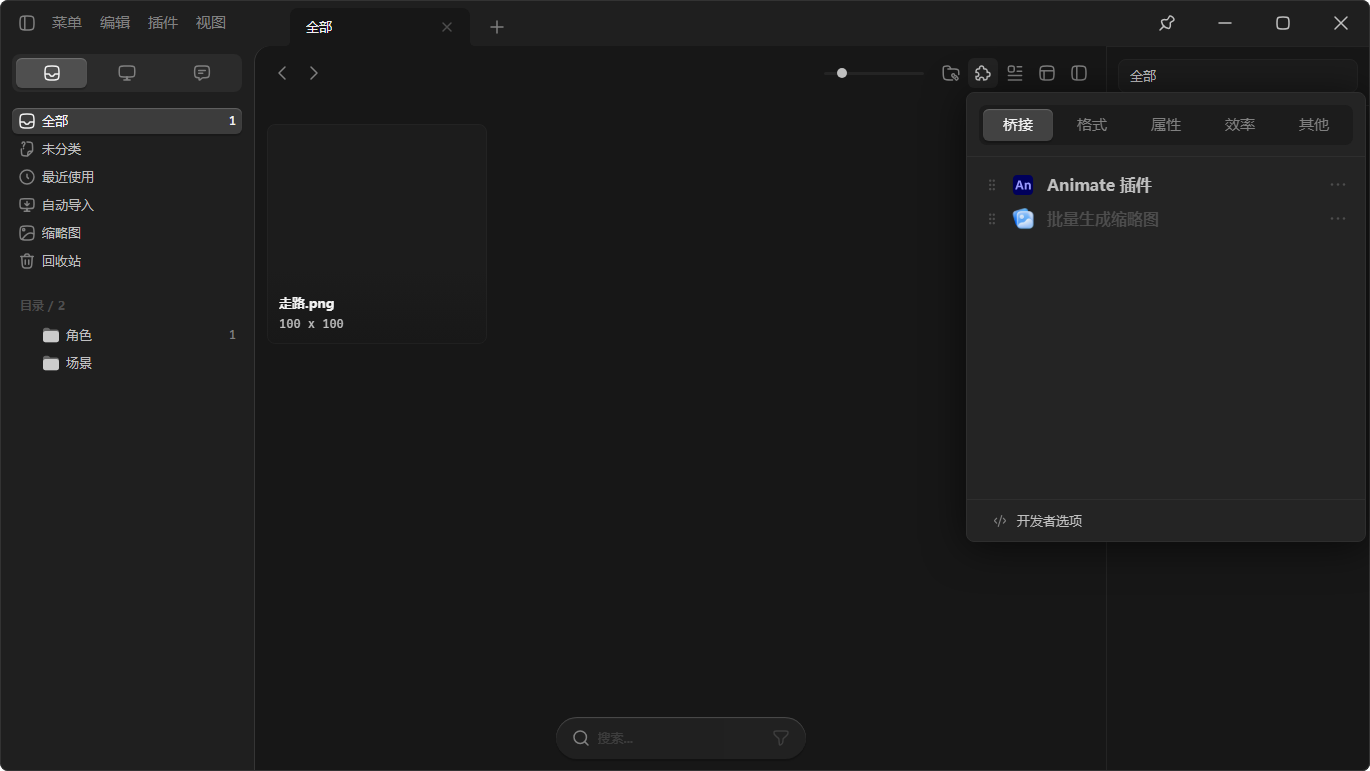
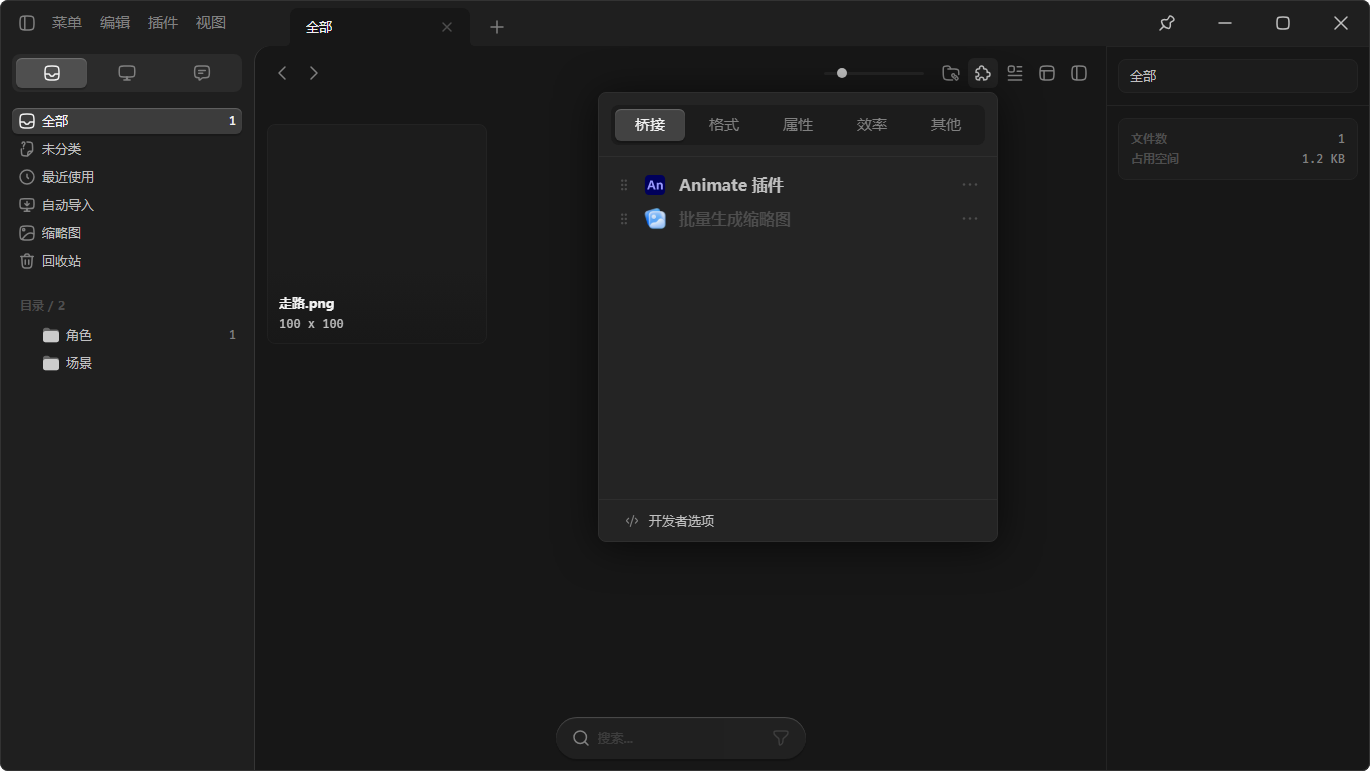
fix(ui): 插件轮走查三轮——浮层右缘对齐展开 / 拖拽松手回弹根治 / CEP 面板高度记忆
- openPluginPanel 锚点 rect.left → rect.right - 400（右侧钮向左展开）
- 拖拽回弹根因 = settling 死代码（写在 drag.id 判空后）：松手归位帧恒禁 transform 过渡，onDragEnd 任何松手置位
- CEP manifest 默认高 520 → 760（容纳导出设置组）+ resizeContent 启动重试 300ms/1000ms + bump 0.3.0
- 探针 +P2-2b 右缘断言，41 项全 PASS；typecheck 0 错

diff --git a/src/components/plugins/PluginListPanel.vue b/src/components/plugins/PluginListPanel.vue
@@ -90,6 +90,9 @@ function onDragEnd(): void {
   const { from, to } = drag;
   const moved = dragMoved;
   drag.id = "";
+  // 归位帧禁过渡（itemStyle settling 分支）——任何松手都置位：拖回原位也有残留 dy 偏移
+  settling.value = true;
+  setTimeout(() => (settling.value = false), 50);
   if (!moved || from < 0 || to === from) return;
   // 可见子序重排 → 回写全局序（其他分类 id 保持原位：按可见集原位替换）
   const vis = visiblePlugins.value.map((p) => p.id);
@@ -100,8 +103,6 @@ function onDragEnd(): void {
   ui.pluginOrder = orderedPlugins.value.map((p) => (visSet.has(p.id) ? vis[j++] : p.id));
   suppressClick = true;
   setTimeout(() => (suppressClick = false), 0);
-  settling.value = true;
-  setTimeout(() => (settling.value = false), 50);
 }
 
 function onDragCancel(): void {
@@ -121,13 +122,16 @@ onBeforeUnmount(() => {
   onDragCancel();
 });
 
-// 让位位移：拖动项跟随指针（无过渡、置顶）；被跨越项反向让出一步（transition 在 .plugin-item 根样式）
+// 让位位移：拖动项跟随指针（无过渡、置顶）；被跨越项反向让出一步（transition 在 .plugin-item 根样式）。
+// 松手归位帧（settling，2026-09-06 三轮修「松手回弹」）：drag.id 清空与 pluginOrder 重排同帧发生——
+// inline transform 移除若走根样式 0.18s transition，残留 dy/让位偏移会从新位置滑回（= 用户看到的回弹）；
+// 归位帧恒禁过渡，DOM 重排 + transform 移除同帧瞬时完成，落位干脆（settling 判定必须先于 drag.id 判空）。
 function itemStyle(i: number): string {
+  if (settling.value) return "transition: none;";
   if (!drag.id) return "";
   if (i === drag.from) {
     return `transform: translateY(${drag.dy}px); transition: none; position: relative; z-index: 2;`;
   }
-  if (settling.value) return "";
   const { from, to } = drag;
   if (from < to && i > from && i <= to) return `transform: translateY(${-ITEM_STEP}px)`;
   if (to < from && i >= to && i < from) return `transform: translateY(${ITEM_STEP}px)`;

diff --git a/src/lib/pluginPanel.ts b/src/lib/pluginPanel.ts
@@ -1,12 +1,15 @@
 // 插件列表面板（浮层）全局状态与打开逻辑（2026-09-06 插件面板轮）：
-// 三入口共用（SidebarLeft「插件」文字钮 / ContentTitleBar 工具栏 plugin 钮 / PreviewTitleBar plugin 钮），
-// 宿主 App.vue 唯一实例（预览子窗口同在）——ContextMenu 菜单同位口径。
+// 两入口共用（ContentTitleBar 工具栏 plugin 钮 / PreviewTitleBar plugin 钮；菜单栏「插件」文字钮
+// 同日二轮改走 pluginMenu 上下文菜单不再经此），宿主 App.vue 唯一实例（预览子窗口同在）。
 // 非模态浮层（用户定）：点面板外 / Esc 关（AppMenu 机制）、同钮再点 toggle 关（trigger 豁免，
 // 点触发钮不算点外——速查 §26 M7 教训）；选择模式（picker.active）禁开（视觉不改——稿无禁用态）。
-// 弹出位 = 触发钮下方（左缘对齐 rect.left、顶 = rect.bottom + 4，菜单栏「菜单」钮同位口径），
+// 弹出位 = 触发钮下方、**右缘对齐按钮右缘**（顶 = rect.bottom + 4）——同日三轮用户实机定：
+// 工具栏钮在右侧，左缘对齐向右展开必出窗（「浮层朝左边展开，右边本来就没什么空间了」）；
 // 视口右/底缘钳制归 AppMenu。
 import { reactive } from "vue";
 import { usePickerStore } from "../stores/picker";
+
+export const PLUGIN_PANEL_WIDTH = 400; // 稿值（PluginListPanel AppMenu width 同源）
 
 export const pluginPanelState = reactive({
   open: false,
@@ -24,7 +27,7 @@ export function openPluginPanel(e: MouseEvent): void {
   }
   if (usePickerStore().active) return; // 选择模式禁开（白名单收窄，§12.1 同口径）
   const rect = el.getBoundingClientRect();
-  pluginPanelState.x = rect.left;
+  pluginPanelState.x = rect.right - PLUGIN_PANEL_WIDTH; // 右缘对齐（工具栏右侧钮，向左展开）
   pluginPanelState.y = rect.bottom + 4;
   pluginPanelState.trigger = el;
   pluginPanelState.open = true;

diff --git a/plugins/animate-cep/js/panel.js b/plugins/animate-cep/js/panel.js
@@ -770,15 +770,24 @@ function onExported(name, dir) {
 
 /* —— 面板尺寸持久化（2026-09-02 用户报：调好宽度重开 AN 回退默认 300——CEP 宿主不替扩展记忆尺寸）：
  * 启动读 localStorage 恢复（resizeContent）；window resize（dock 拖宽 / 浮动调整都会触发）防抖 300ms 记忆。
- * docked 下 resizeContent 有效性因宿主而异，实测定；无效时退路 = manifest 默认尺寸调大 + Animate 保存工作区。 —— */
+ * 2026-09-06 三轮（用户实机报「还是不能记忆高度，保存工作区只记位置」）：
+ * ① manifest 默认高 520 → 760——导出设置组入面板后 520 放不下（Animate 工作区对 CEP 面板
+ *    高度不持久，重开回 manifest 默认，默认必须能容纳全部内容）；
+ * ② resizeContent 启动重试 300ms / 1000ms——docked 下宿主布局完成后可能覆盖首次调用，
+ *    重试兜底（docked 下 resizeContent 有效性因宿主而异：浮动面板恒有效，dock 尽力而为）。 —— */
 (function panelSizePersist() {
-  try {
-    var s = localStorage.getItem('cepPanelSize');
-    if (s) {
-      var p = JSON.parse(s);
-      if (p && p.w >= 260 && p.h >= 380) cs.resizeContent(p.w, p.h); // 下限 = manifest MinSize
-    }
-  } catch (e) {}
+  function restoreSize() {
+    try {
+      var s = localStorage.getItem('cepPanelSize');
+      if (s) {
+        var p = JSON.parse(s);
+        if (p && p.w >= 260 && p.h >= 380) cs.resizeContent(p.w, p.h); // 下限 = manifest MinSize
+      }
+    } catch (e) {}
+  }
+  restoreSize();
+  setTimeout(restoreSize, 300);
+  setTimeout(restoreSize, 1000);
   var t = 0;
   window.addEventListener('resize', function () {
     clearTimeout(t);

diff --git a/tools/cdp-plugin-panel-probe.py b/tools/cdp-plugin-panel-probe.py
@@ -237,8 +237,9 @@ async def main():
 
             # P2 工具栏 plugin 钮开浮层（浮层唯一入口）：位置 / 尺寸 / 两项 / batch 禁用 / 默认桥接
             check("P2-1 工具栏 plugin 钮开面板", await open_panel())
-            geo = await ev(f"(() => {{ const p = {PANEL}; const b = {TOOLBAR_PLUGIN_BTN}; if (!p || !b) return null; const pr = p.getBoundingClientRect(); const br = b.getBoundingClientRect(); return {{ pt: pr.top, pw: p.offsetWidth, ph: p.offsetHeight, bb: br.bottom }}; }})()")
+            geo = await ev(f"(() => {{ const p = {PANEL}; const b = {TOOLBAR_PLUGIN_BTN}; if (!p || !b) return null; const pr = p.getBoundingClientRect(); const br = b.getBoundingClientRect(); return {{ pt: pr.top, pr: pr.right, pw: p.offsetWidth, ph: p.offsetHeight, bb: br.bottom, br: br.right }}; }})()")
             check("P2-2 弹出在钮下方 +4", geo is not None and abs(geo["pt"] - geo["bb"] - 4) <= 1, str(geo))
+            check("P2-2b 右缘 = 钮右缘对齐（三轮改定向左展开）", geo is not None and abs(geo["pr"] - geo["br"]) <= 1, str(geo))
             check("P2-3 尺寸 400×450", geo is not None and geo["pw"] == 400 and geo["ph"] == 450, str(geo))
             names = await ev("[...document.querySelectorAll('.plugin-panel .plugin-item .p-name')].map((x) => x.textContent)")
             check("P2-4 列表两项（Animate 插件 / 批量生成缩略图）", json.dumps(names, ensure_ascii=False) == json.dumps(["Animate 插件", "批量生成缩略图"], ensure_ascii=False), str(names))
@@ -249,7 +250,7 @@ async def main():
             await js_click(el_center(TOOLBAR_PLUGIN_BTN))
             check("P2-7 同钮再点 toggle 关", not await panel_open())
             check("P2-8 前置：再开", await open_panel())
-            await mouse("mousePressed", 700, 500); await mouse("mouseReleased", 700, 500)
+            await mouse("mousePressed", 500, 500); await mouse("mouseReleased", 500, 500)
             await asyncio.sleep(0.4)
             check("P2-9 点面板外关闭", not await panel_open())
             check("P2-10 前置：再开", await open_panel())

diff --git a/docs/05_项目进度/00_当前状态.md b/docs/05_项目进度/00_当前状态.md
@@ -1,6 +1,6 @@
 > 任务完成即更新本文件。开发中发现的遗漏细节记入 [[09_待办细节清单]]，按迭代消化，不在代码里就地糊（见 01_开发规范 第 4 条）。
 
-- **菜单栏插件轮 + CEP 设置重构（2026-09-06，feat/new-ui，稿 = 工具栏展开窗口/插件.md + Animate 插件.md；实机走查 26-29 四项闭环）**：**菜单栏「插件」钮 = 普通上下文菜单**（同日二轮用户走查改定：「菜单栏不是弹出插件插口」——`menuSpecs/pluginMenu.ts` 四项两组：Animate（开详情子窗口）/ 批量生成缩略图占位 │ API 接口文档 / 开发者选项占位，内容自适应宽，toggle/picker 禁开同他钮）；**400×450 插件列表浮层只留工具栏 / 预览标题栏 plugin 图标钮**（`PluginListPanel`：五档分类分段（SegmentedControl 扩 tone="g2"）、抓手拖拽排序落 **ui.pluginOrder** 持久化、更多菜单（打开/安装或卸载动态/配置快捷键占位）、开发者选项点亮不接业务）；「批量生成缩略图」置灰（8.2 未立项）。单击 Animate 插件 → **独立子窗口**（用户定：插件 ≠ Animate，开源后用户可写面板——新命令 `open_plugin_window`，预览窗同款 label 单例 / `?plugin=` 分发 / 544×538 / 云母）：教程/功能/路径（installDir 动态）+ 关闭/卸载/安装（ActionButton 扩 cancel/danger）；**capabilities `windows` 补 `plugin-*`**（同日二轮实机坑：未授权 → allow-close / allow-start-dragging 静默 deny = 关不了窗、拖不动，速查 §29 登记）。**CepSettingsDialog 退役**（设置挪 CEP）。**CEP 批次 4**：只读参数行 → 导出设置分组可编辑（时长/大小/帧率留空=跟随文档，失焦即存）——新 WS `saveSettings` → 后端 `validate()` 共用护栏 → config 单写点 → 广播回显；**cepSettings 本地缓存兜底**（PRD 口径兑现，「每次重启都要重新设置」闭环）；比例档固定像素表（1280 长边基准）+ 首档「自适应」按元件尺寸建文档；撑满修复（缩放 0.9→100% contain）；新建文档继承/指定帧率；多选 segMerge「分别建立/整合到一个文档」（jsx exportMerged 整体 contain 单条入库）。**maxEdge 尺寸上限全链废除**（用户定，后端降级链纯质量三档+抽帧）。cargo **450 绿** / typecheck 0 错 / 探针 cdp-plugin-panel-probe 二轮改写 **40 项全 PASS**；未验证项交实机走查（CEP 回写全链路 / exportMerged 实机 / 子窗口关闭与拖拽 / 真安装卸载 / 浮层拖拽手感）。速查表 §29 新立 / 07 接口 / 日志同步 / 走查 26-29 勾选（用户授权）。预览页 PreviewPlugins 新展区；图标入库 4 个（grip/dev-options 转 currentColor + animate-plugin/batch-thumbnails 原值）。**下一步：用户实机走查（未验证项 + item hover l-a3 色档 / 更多钮 18 盒档 / 位图图标禁用观感等待定点）**。
+- **菜单栏插件轮 + CEP 设置重构（2026-09-06，feat/new-ui，稿 = 工具栏展开窗口/插件.md + Animate 插件.md；实机走查 26-29 四项闭环）**：**菜单栏「插件」钮 = 普通上下文菜单**（同日二轮用户走查改定：「菜单栏不是弹出插件插口」——`menuSpecs/pluginMenu.ts` 四项两组：Animate（开详情子窗口）/ 批量生成缩略图占位 │ API 接口文档 / 开发者选项占位，内容自适应宽，toggle/picker 禁开同他钮）；**400×450 插件列表浮层只留工具栏 / 预览标题栏 plugin 图标钮**（`PluginListPanel`：五档分类分段（SegmentedControl 扩 tone="g2"）、抓手拖拽排序落 **ui.pluginOrder** 持久化、更多菜单（打开/安装或卸载动态/配置快捷键占位）、开发者选项点亮不接业务）；「批量生成缩略图」置灰（8.2 未立项）。单击 Animate 插件 → **独立子窗口**（用户定：插件 ≠ Animate，开源后用户可写面板——新命令 `open_plugin_window`，预览窗同款 label 单例 / `?plugin=` 分发 / 544×538 / 云母）：教程/功能/路径（installDir 动态）+ 关闭/卸载/安装（ActionButton 扩 cancel/danger）；**capabilities `windows` 补 `plugin-*`**（同日二轮实机坑：未授权 → allow-close / allow-start-dragging 静默 deny = 关不了窗、拖不动，速查 §29 登记）。**CepSettingsDialog 退役**（设置挪 CEP）。**CEP 批次 4**：只读参数行 → 导出设置分组可编辑（时长/大小/帧率留空=跟随文档，失焦即存）——新 WS `saveSettings` → 后端 `validate()` 共用护栏 → config 单写点 → 广播回显；**cepSettings 本地缓存兜底**（PRD 口径兑现，「每次重启都要重新设置」闭环）；比例档固定像素表（1280 长边基准）+ 首档「自适应」按元件尺寸建文档；撑满修复（缩放 0.9→100% contain）；新建文档继承/指定帧率；多选 segMerge「分别建立/整合到一个文档」（jsx exportMerged 整体 contain 单条入库）。**maxEdge 尺寸上限全链废除**（用户定，后端降级链纯质量三档+抽帧）。cargo **450 绿** / typecheck 0 错 / 探针 cdp-plugin-panel-probe 二轮改写 **40 项全 PASS**；未验证项交实机走查（CEP 回写全链路 / exportMerged 实机 / 子窗口关闭与拖拽 / 真安装卸载 / 浮层拖拽手感）。速查表 §29 新立 / 07 接口 / 日志同步 / 走查 26-29 勾选（用户授权）。预览页 PreviewPlugins 新展区；图标入库 4 个（grip/dev-options 转 currentColor + animate-plugin/batch-thumbnails 原值）。**同日二轮走查修订**：菜单栏钮改上下文菜单（浮层只留工具栏/预览栏钮）+ capabilities 补 `plugin-*` 根治子窗口关不了/拖不动。**同日三轮走查修订**：浮层右缘对齐展开（`rect.right - 400`）/ 拖拽松手回弹根治（settling 归位帧禁过渡，死代码修复，blockDrag 通用口径）/ CEP 面板高度（manifest 520→760 + resizeContent 启动重试 + bump 0.3.0）。探针 41 项全 PASS（+P2-2b 右缘断言）。**下一步：用户实机走查（子窗口关闭拖拽 / 浮层展开方向 / 拖拽松手手感 / CEP 升级到 0.3.0 后重开高度 + 未验证项 + item hover l-a3 色档 / 更多钮 18 盒档 / 位图图标禁用观感等待定点）**。
 
 - **菜单栏视图菜单轮（2026-09-06，feat/new-ui，稿 = 用户当场供稿截图）**：菜单栏「视图」钮接视图菜单（spec 新立 `menuSpecs/viewMenu.ts`）——三组九项：大纲管理（= 侧栏区块管理弹窗）/ 分组管理（锁当前文件夹视口，非文件夹禁用）/ 信息查看管理（未立项占位）│ 查看方式 ▸（布局四档 **Alt+1~4**（useGlobalKeys 新 onViewKeys）/ 排序 8 键 + 升降序（自定义档实时禁用）/ 时间显示 / 简介五档（标签占位）/ 显示扩展名·角标·**链接标识（新 ui.showLinkBadge 徽章总闸）**·子文件夹内容 / 自动播放两项——全项 = ui store 既有字段菜单面，与 ViewOptionsMenu 同状态源）/ 标签页 ▸（submenu 函数实时清单：点行激活（tabs 新 activateTab）/ 锁定 / 关闭三项（锁定禁关·单页禁批量）/ 左右·上下分屏）│ 显示侧边栏 / 显示信息面板 / **始终显示搜索框**（新 ui.showSearchBar：关 = 悬浮栏隐藏 + toast 告知，Ctrl+F 唤出下浮入 / Esc 收回下沉出——用户当场定案）。**新机制 = CtxEntry 函数化**（checked/disabled/submenu 支持函数，渲染期求值响应式追踪——keepOpen 菜单对勾/禁用实时刷新；folder.ts 排序依据 menuState 回写 hack 废除迁移）。**选择模式分流**：视图钮可开（§12.1 白名单含查看方式），管理三件 / 标签页 / 侧栏收展各自禁用。SidebarLeft 视图钮 = 同 toggle 机制；插件钮仍点亮不接业务（四钮仅剩）；预览页 PreviewMenus 补视图菜单五形态陈列。vue-tsc 0 错；探针 cdp-app-menu-probe +V 段 43 项（M65+E22 回归绿 + V1~V5-1 实测 PASS）；**V5-2 起 headless CDP 环境不稳未跑通**（截图挂起 / 偶发不回包）——探针同修 send 60s 超时兜底 + 无缓冲跑法。速查表 §28 新立 / 日志同步；ui-refactor 技能加第 9 节「探针与验证纪律」（用户定：有限修复 / 跑不通换路 + 如实列未验证项 / 必要验证一过立即收尾）。**当日用户实机走查全项通过（布局 Alt+1~4 / 对勾实时 / 链接标识总闸 / 标签页子菜单 / 管理弹窗入口 / 侧栏收展 / 搜索框显隐 toast / 选择模式分流，无问题项）。本轮闭环**。
 

diff --git a/docs/02_样式与布局/03_新面板口径速查.md b/docs/02_样式与布局/03_新面板口径速查.md
@@ -358,6 +358,7 @@
 - **更多菜单**：打开 / 安装或卸载（按 Animate 安装态动态文案，install_cep_plugin / uninstall_cep_plugin + toast）/ 配置快捷键（disabled 占位，业务未立项）；底部「开发者选项」点亮不接业务（菜单栏惯例）。**插件数据源 = `lib/plugins.ts` 写死内置两项**（开源用户插件扫描另立项）；「批量生成缩略图」item 置灰禁用（8.2 业务未立项，用户定）。
 - **插件详情 = Tauri 独立子窗口（用户定案：插件 ≠ Animate，开源后用户可写面板，独立窗口自由度最大 + 可与外部软件并排操作）**：命令 `open_plugin_window`（label `plugin-{id}` 单例聚焦 / `?plugin=` query 分发 / 白名单现仅 animate / 544×538 / 无边框 transparent shadow 云母 apply——全沿 open_preview_window 机制与 async 死锁教训）；前端根 = `plugins/AnimatePluginWindow.vue`（标题行挂 data-tauri-drag-region；关闭 = 底部钮 + Esc；ToastStack 子窗口自挂）。
 - **新子窗口必须进 capabilities `windows` 列表（同日二轮实机踩坑）**：`src-tauri/capabilities/default.json` 原仅 `["main", "preview-*"]`——`plugin-animate` 未授权 → `core:window:allow-close` / `allow-start-dragging` 被 deny，**关闭钮 / Esc 关窗 / data-tauri-drag-region 拖拽全部静默失效**（用户实机报「点关闭关不了、无法拖动」根因）。加 `"plugin-*"` 修复。错误信号：新窗 label 的窗口 API 调用无报错无效果。
+- **同日三轮（用户实机走查三条修订）**：① **浮层右缘对齐展开**——openPluginPanel 锚点 `rect.left` → `rect.right - 400`（用户：「浮层朝左边展开，右边本来就没什么空间了」；工具栏右侧钮的浮层一律右缘对齐按钮右缘，`PLUGIN_PANEL_WIDTH` 常量同源）；② **拖拽松手回弹根治**——松手时 `drag.id` 清空与 pluginOrder 重排同帧，inline transform 移除若走根样式 `transition: transform 0.18s`，残留 dy/让位偏移会从新位置滑回 = 回弹；修法 = **松手归位帧恒禁过渡**（`settling` ref 50ms，itemStyle settling 分支返回 `transition: none;` 且**判定必须先于 drag.id 判空**——初版 settling 写在判空后成死代码；onDragEnd 任何松手都置位，拖回原位也有残留偏移）。**blockDrag 范式面板一律照此**；③ **CEP 面板高度记忆**——manifest 默认高 520 → **760**（导出设置组入面板后 520 放不下；Animate 工作区对 CEP 面板高度不持久，重开回 manifest 默认，默认必须容纳全部内容）+ resizeContent 启动**重试 300ms/1000ms**（docked 下宿主布局完成后可能覆盖首次调用）；版本 bump 0.3.0（详情窗显「可升级」引导重装）。
 - **ActionButton 扩变体 `cancel`（通用/五级底 + 立体感-通用 + 二级）与 `danger`（状态/禁止底 + 立体感-主要按钮 + 一级）**——详情窗按钮行 关闭 128×38 / 卸载 / 安装 CEP 插件 200×38（稿值；hover 稿未画不做，§15 口径）。
 - **CepSettingsDialog 退役删除**（CEP 导出设置挪 CEP 面板内编辑——经 WS `saveSettings` 回写 config 单写点；安装/卸载并入详情子窗口与更多菜单）。`CepInstallStatus` 加 `installDir` 字段（详情窗「路径」组）；Temp 路径 = 库 root + `\temp\cep-out`（未开库显「未开库」）。
 - **CEP 侧（批次 4，panel.js/host.jsx）**：导出设置分组（时长秒 / 大小 MB / 帧率留空=跟随文档）失焦/回车即存 + **localStorage cepSettings 缓存兜底**（PRD 口径兑现）+ 断连禁用；比例档固定像素表（1280 长边基准）+ 首档「自适应」（-1,-1 信号 jsx 读元件尺寸）；撑满修复（缩放居中 0.9 → 100% contain）；新建文档帧率 = 设置 fps（0 = 跟随原文档，修 createDocument 不继承隐患）；多选 segMerge「分别建立 / 整合到一个文档」（jsx exportMerged 整体包围盒 contain，单条入库）。**maxEdge 尺寸上限全链废除**（用户定：不再限制导出像素，WebP 合成保留体积压缩；后端降级链纯质量三档 + 抽帧）。

diff --git a/docs/04_开发日志/2026-09-06.md b/docs/04_开发日志/2026-09-06.md
@@ -54,3 +54,11 @@
 2. **子窗口关闭失效 + 无法拖动根治**：根因 = `capabilities/default.json` 的 `windows` 仅 `main` / `preview-*`，`plugin-animate` 未授权 → `allow-close` / `allow-start-dragging` 被 deny（Tauri 权限拒绝**静默无报错**，探针桩也拦不到——纯实机才能发现）。加 `"plugin-*"` 修复；速查表 §29 登记（新子窗口 label 必进 capabilities，错误信号 = 窗口 API 调用无报错无效果）。
 
 **验证**：`pnpm typecheck` 0 错；探针改写后 **40 项全 PASS**（P1 菜单七项断言 + P1b 菜单三关闭；P2 工具栏钮开浮层 + 浮层三关闭；P3 分类过滤；P4 更多菜单与安装链路；P5 picker 禁开菜单）+ 截图 plugin-menu 目验贴稿。**交实机走查**：子窗口关闭 / 标题行拖拽 / Esc（capabilities 修复后）。
+
+### 同日三轮（用户实机走查三条修订）
+
+1. **浮层右缘对齐展开**（用户：「浮层朝左边展开，右边本来就没什么空间了」）——openPluginPanel 锚点 `rect.left` → `rect.right - PLUGIN_PANEL_WIDTH(400)`；工具栏右侧钮浮层一律右缘对齐按钮右缘。
+2. **拖拽松手回弹根治**（用户视频实证）——根因 = 松手时 `drag.id` 清空与 pluginOrder 重排同帧，inline transform 移除走根样式 0.18s transition，残留偏移从新位置滑回；且初版 `settling` 写在 `drag.id` 判空之后成**死代码**。修法 = 松手归位帧恒禁过渡（settling 50ms + itemStyle settling 分支先于 drag.id 判空 + onDragEnd 任何松手置位）。速查 §29 登记为 blockDrag 范式通用口径。
+3. **CEP 面板高度记忆**（用户：「保存了工作区只记位置，每次重开回默认高，设置区看不到」）——manifest 默认高 520 → **760**（设置组入面板后默认必须容纳全部内容；Animate 工作区对 CEP 面板高度不持久）+ resizeContent 启动重试 300ms/1000ms（docked 下宿主布局覆盖首次调用的兜底）；manifest bump **0.3.0**（详情窗「重新安装 / 升级」引导）。
+
+**验证**：`pnpm typecheck` 0 错；探针 +P2-2b 右缘断言后 **41 项全 PASS**（环境坑：同端口连跑两遍会撞残留实例——第一遍 31 PASS 假警报，清场 sleep 后干净重跑全绿；点外点击坐标随右缘对齐改 (500,500)）。**交实机走查**：浮层展开方向 / 拖拽松手手感 / CEP 重开高度（需「重新安装 / 升级」到 0.3.0 后验证）。
